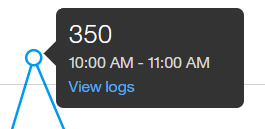
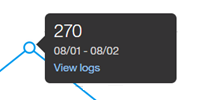
Fixes issue 9857
Changes to reflect differences between conversations and utterances

Changed region(s): [[0.0, 0.06, 1.0, 1.0], [0.2412, 0.42, 0.8141, 0.57]]

diff --git a/logs_oview.md b/logs_oview.md
@@ -2,7 +2,7 @@
 
 copyright:
   years: 2015, 2017
-lastupdated: "2017-07-18"
+lastupdated: "2017-08-30"
 
 ---
 
@@ -33,32 +33,46 @@ You can use the Overview page to answer questions like:
 
 To open the Overview page, select **Overview** in the navigation bar. If **Overview** is not visible, use the ![Menu](images/Menu_16.png) menu to open the page.
 
-Use the *time period* control to choose the period for which data is displayed.  This control affects all data shown on the page: not just the number of conversations displayed in the graph, but also the statistics displayed along with the graph, and the lists of top intents and entities.
+![Overview page](images/oview.png)
 
-![Time period control](images/oview-time.png)
+The top part of the page includes the following controls:
+
+* *Filter* - Toggles the filter option on or off. When toggled on, you will see drop-down selectors for **Intents** and **Entities**
+* *Refresh data* - Allows you to refresh the Overview page statistics immediately. The Overview page shows when the data that it displays was last updated. You can select **Refresh data** if you think that newer data might be available.
+* Time period control - Use this control to choose the period for which data is displayed.  This control affects all data shown on the page: not just the number of conversations displayed in the graph, but also the statistics displayed along with the graph, and the lists of top intents and entities.
+
+  ![Time period control](images/oview-time.png)
 
 You can choose whether to view data for a single day, a week, a month, a quarter, or a year.  In each case, the data points on the graph adjust to an appropriate measurement period.  For example, when viewing a graph for a day, the data is presented in hourly values, but when viewing a graph for a week, the data is shown by day.  A week always runs from Sunday through Saturday.  You cannot create custom time periods, such as a week that runs from Thursday to the following Wednesday, or a month that begins on any date other than the first.
 
-You can select **View logs** to open the User conversations page, with the date range filtered to match the time period that you have selected for the Overview page.  Depending on your plan and the date range that you selected, you might see no data. For example, the {{site.data.keyword.conversationshort}} [Standard service plan](logs_convo.html#log-limits) only retains chat logs for 30 days; if you choose a date range older than 30 days, you will see no data.
+## All conversations
+
+A graph displays the total number of conversations for the date range selected.
+
+**Note:** A 'conversation' is considered to be any interaction with the bot, so if there are conversations where the bot said "Hi, how can I help you?", and then the user closed their browser, that conversation is included in the total conversation count.
+
+You can select **View logs** to open the [User conversations](logs_convo.html) page, with the date range filtered to match the time period that you have selected for the Overview page. Depending on your plan and the date range that you selected, you might see no data. For example, the {{site.data.keyword.conversationshort}} [Standard service plan](logs_convo.html#log-limits) only retains chat logs for 30 days; if you choose a date range older than 30 days, you will see no data.
+
+**Note:** The [User conversations](logs_convo.html) page displays the total number of *utterances*. An utterance is a single message the user sends to the bot. Each conversation may be made up of multiple utterances. Thus, the number of results on the [User conversations](logs_convo.html) page is different than the number of conversations shown on this Overview page.
 
 While viewing the graph, you can click on an individual data point to see the numeric value, as shown here:
 
 ![Single data point](images/oview-point.png)
 
-You can use the **View logs** link to open the User conversations page with the date range filtered to match the data point.
+Below the graph, statistics related to the displayed data are shown:
 
-In addition to the graph, statistics related to the displayed data are shown:
+* *Total conversations* - The total number of conversations that took place during this time period
+* *Max. conversations* - The maximum number of conversations for a single data point within the time period
+* *Weak understanding* - The number of conversations with weak understanding. These conversations are not classified by an intent, and do not contain any known entities. These can be useful in identifying potential dialog problems.
 
-1.  The total number of conversations that took place during this time period
-1.  The maximum number of conversations for a single data point within the time period
-1.  The number of conversations with weak understanding. These conversations are not classified by an intent, and do not contain any known entities. These can be useful in identifying potential dialog problems.
+## Top intents and Top entities
 
-You can also view the intents and entities that were recognized most often during the specified time period.  By default you see the top three of each, but you can change that to a larger number.
+You can also view the intents and entities that were recognized most often during the specified time period. By default you see the top three of each, but you can change that to a larger number, like 5 or 10.
 
-Intents are shown in a simple list.  In addition to seeing the number of times an intent was recognized, you can use the **View logs** link to open the User conversations page with the date range filtered to match the data you are viewing, and the intent filtered to match the intent.
+* *Top intents* - Intents are shown in a simple list.  In addition to seeing the number of times an intent was recognized, you can use the **View logs** link to open the User conversations page with the date range filtered to match the data you are viewing, and the intent filtered to match the selected intent.
 
-Entities are shown in a bar chart.  For each entity you can select the bar to see the number that the bar represents.  You can select **Show top values** to see a list of the most common values that were identified for this entity during the time period. You can select **View logs** to open the User conversations page with the date range filtered to match the data you are viewing and the entity filtered to match the selected entity.
+* *Top entities* are shown in a bar chart. For each entity you can select the bar to see the number that the bar represents.
 
-![Entity data balloon](images/oview-entity.png)
+  ![Entity data balloon](images/oview-entity.png)
 
-The page shows when the data that it displays was last updated.  You can select **Refresh data** if you think that newer data might be available.
+  Select **Show top values** to see a list of the most common values that were identified for this entity during the time period. Select **View logs** to open the [User conversations](logs_convo.html) page with the date range filtered to match the data you are viewing, and the entity filtered to match the selected entity.

diff --git a/logs_convo.md b/logs_convo.md
@@ -2,7 +2,7 @@
 
 copyright:
   years: 2015, 2017
-lastupdated: "2017-07-18"
+lastupdated: "2017-08-30"
 
 ---
 
@@ -20,7 +20,7 @@ lastupdated: "2017-07-18"
 # Working with conversations
 {: #logs_convo}
 
-To open a list of conversations between users and your bot, select **User conversations** in the navigation bar. If **User conversations** is not visible, use the ![Menu](images/Menu_16.png) menu to open the page.
+To open a list of interactions between users and your bot, select **User conversations** in the navigation bar. If **User conversations** is not visible, use the ![Menu](images/Menu_16.png) menu to open the page.
 {: shortdesc}
 
 When you open the **User conversations** page, the default view lists results for the last day, with the newest results first. The top intent (#intent) and any recognized entity (@entity) values used in the message, and the message text are available. For intents that are not recognized, the value shown is *Irrelevant*. If an entity is not recognized, or has not been provided, the value shown is *No entities found*.
@@ -37,10 +37,13 @@ The length of time for which chat messages are retained depends on your {{site.d
   Standard                             | Last 30 days
   Free                                 | Last 7 days
 
-## Filtering chat messages
-You can filter chat messages by *Search user statements*, *Intents*, *Entities*, and *Last* n *days*:
+## Filtering utterances
 
-*Search user statements* - Type a word in the search bar. This searches the user's inputs, but not your bot's replies.
+It is important to note that the **User conversations** page displays the total number of *utterances* between users and your bot. An utterance is a single message the user sends to the bot. Each conversation maybe made up of multiple utterances. Thus, the number of results on this **User conversations** page is different than the number of conversations shown on the [Overview](logs_oview.html) page.
+
+You can filter utterances by *Search user statements*, *Intents*, *Entities*, and *Last* n *days*:
+
+*Search user statements* - Type a word in the search bar. This searches the users' inputs, but not your bot's replies.
 
 *Intents* - Select the drop-down menu and type an intent in the input field, or choose from the populated list. You can select more than one intent, which filters the results using any of the selected intents, including *Irrelevant*.
 
@@ -50,14 +53,14 @@ You can filter chat messages by *Search user statements*, *Intents*, *Entities*,
 
 ![Entities drop-down menu](images/entities_filter.png)
 
-Chat messages may take some time to update. Allow at least 30 minutes after a user's interaction with your bot before attempting to filter for that content.
+Utterances may take some time to update. Allow at least 30 minutes after a user's interaction with your bot before attempting to filter for that content.
 
-## Viewing an individual conversation
-You can expand each conversation entry to see what the user said in the whole conversation, and how your bot answered. To do this, select **Open conversation**. You are automatically taken to the message you selected within that conversation.
+## Viewing an individual utterance
+You can expand each utterance entry to see what the user said in the whole conversation, and how your bot answered. To do this, select **Open conversation**. You are automatically taken to the utterance you selected within that conversation.
 
 ![Open conversation panel](images/open_convo.png)
 
-You can then choose to show the classification(s) for the message you selected.
+You can then choose to show the classification(s) for the utterance you selected.
 
 ![Open conversation panel with classifications](images/open_convo_classes.png)
 
